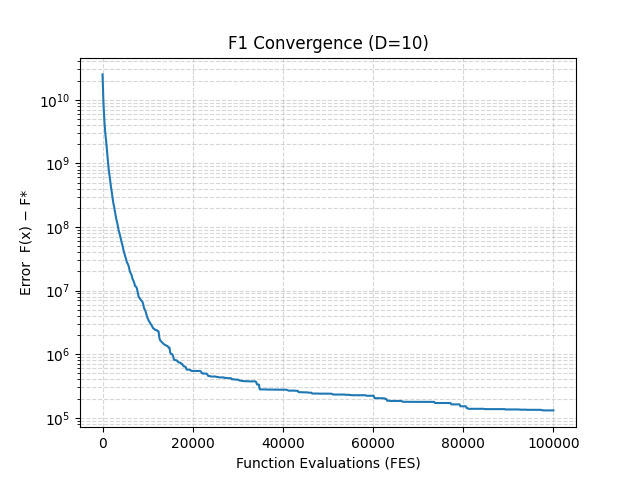
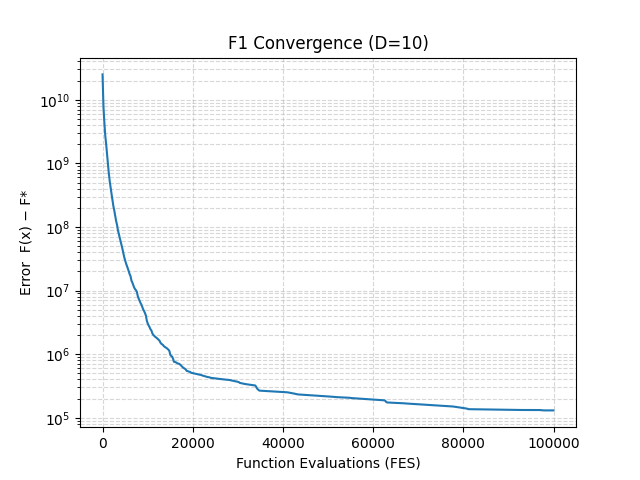
Fix Std Error/Dev naming, optimize history memory, and improve summarizer auto-detection

diff --git a/CEC2017/summarize.py b/CEC2017/summarize.py
@@ -8,6 +8,7 @@ Usage:
 
 import os
 import csv
+import re
 import sys
 
 # Add parent directory to sys.path to allow running as a script from within the package
@@ -16,7 +17,14 @@ parent_dir = os.path.dirname(current_dir)
 if parent_dir not in sys.path:
     sys.path.insert(0, parent_dir)
 
-from config import DIMENSIONS
+
+# Keys we recognise in result files (order matters for CSV columns)
+STAT_KEYS = {
+    "Best Value", "Best Error", "Worst Error", "Median Error",
+    "Mean Error", "Std Dev", "Std Error", "Time", "Ideal", "Runs",
+    # Legacy keys (from old output format) mapped during parsing
+    "Best", "Worst", "Median", "Mean", "Std", "StdError",
+}
 
 
 def parse_result_file(filepath):
@@ -28,10 +36,23 @@ def parse_result_file(filepath):
                 line = line.strip()
                 if not line:
                     continue
-                # Summary lines are formatted as: "Key\tValue"
                 parts = line.split("\t")
-                if len(parts) == 2 and parts[0] in ("Best Value", "Best Error", "Worst Error", "Median Error", "Mean Error", "Std Error", "Time", "Ideal", "Runs", "StdError", "Best", "Worst", "Median", "Mean", "Std"):
-                    stats[parts[0]] = parts[1]
+                if len(parts) == 2 and parts[0] in STAT_KEYS:
+                    key = parts[0]
+                    # Normalise legacy keys to current names
+                    if key == "Best":
+                        key = "Best Error"
+                    elif key == "Worst":
+                        key = "Worst Error"
+                    elif key == "Median":
+                        key = "Median Error"
+                    elif key == "Mean":
+                        key = "Mean Error"
+                    elif key == "Std":
+                        key = "Std Dev"
+                    elif key == "StdError":
+                        key = "Std Error"
+                    stats[key] = parts[1]
     except FileNotFoundError:
         pass
     return stats
@@ -42,9 +63,8 @@ def parse_best_solution(filepath, dimension):
     try:
         with open(filepath, "r") as f:
             lines = f.readlines()
-            # Decision variables start after the first line
             decision_vars = {}
-            for line in lines[1:]:  # Skip first line
+            for line in lines[1:]:
                 line = line.strip()
                 if line and '\t' in line:
                     parts = line.split('\t')
@@ -56,87 +76,100 @@ def parse_best_solution(filepath, dimension):
         return None
 
 
+def _detect_dimensions(results_dir):
+    """Auto-detect all dimensions from existing result files."""
+    dims = set()
+    pattern = re.compile(r"F\d+_D(\d+)\.txt$")
+    for func_dir in os.listdir(results_dir):
+        func_path = os.path.join(results_dir, func_dir)
+        if not os.path.isdir(func_path):
+            continue
+        for fname in os.listdir(func_path):
+            m = pattern.match(fname)
+            if m:
+                dims.add(int(m.group(1)))
+    return sorted(dims)
+
+
 def build_summary():
     results_dir = "results"
     output_file = os.path.join(results_dir, "summary.csv")
 
-    # Header: Function | Ideal Value | Best Value | Best Error | Worst Error | Mean Error | Std Dev | Std Error | x1 | x2 | ... | xD
-    header = ["Function", "Ideal Value", "Best Value", "Best Error", "Worst Error", "Mean Error", "Std Dev", "Std Error"]
+    # Auto-detect dimensions from result files
+    dimensions = _detect_dimensions(results_dir)
+    if not dimensions:
+        print("No result files found in results/ directory.")
+        return
 
-    # Add decision variable columns based on dimension
-    for dim in DIMENSIONS:
-        for i in range(dim):
-            header.append(f"x{i+1}")
+    print(f"Detected dimensions: {dimensions}")
+
+    # CSV columns (per dimension block):
+    # Best Value | Best Error | Worst Error | Mean Error | Std Dev | Std Error | x1..xD
+    header = ["Function"]
+
+    for dim in dimensions:
+        prefix = f"D{dim}_"
+        header.extend([
+            f"{prefix}Best Value",
+            f"{prefix}Best Error",
+            f"{prefix}Worst Error",
+            f"{prefix}Mean Error",
+            f"{prefix}Std Dev",
+            f"{prefix}Std Error",
+        ])
 
     rows = []
 
     for func_id in range(1, 31):
         row = [f"F{func_id}"]
-
-        # Calculate ideal value
         ideal_value = func_id * 100
-        row.append(f"{ideal_value:.6e}")
 
-        # Initialize variables to store best solution across dimensions
-        best_overall_solution = None
-        best_overall_value = float('inf')
-        best_overall_dimension = None
-
-        # Process each dimension
-        for dim in DIMENSIONS:
+        for dim in dimensions:
             filepath = os.path.join(results_dir, f"F{func_id}", f"F{func_id}_D{dim}.txt")
             stats = parse_result_file(filepath)
 
-            solution_path = os.path.join(results_dir, f"F{func_id}", f"F{func_id}_D{dim}_solution.txt")
-            decision_vars = parse_best_solution(solution_path, dim)
-
             if stats:
                 try:
-                    if "Best Value" in stats:
-                        best_value = float(stats["Best Value"])
-                        best_error = float(stats.get("Best Error", "—"))
-                    else:
-                        best_error = float(stats.get("Best", "—"))
-                        best_value = best_error + ideal_value if best_error != "—" else "—"
-
-                    worst_error = float(stats.get("Worst Error", stats.get("Worst", "—")))
-                    mean_error = float(stats.get("Mean Error", stats.get("Mean", "—")))
-                    std_dev_error = float(stats.get("Std Error", stats.get("Std", "—")))
-                    std_error = float(stats.get("StdError", "—"))
+                    best_value = float(stats.get("Best Value", "—"))
                 except (ValueError, TypeError):
-                    best_value = best_error = worst_error = mean_error = std_dev_error = std_error = "—"
+                    best_value = "—"
 
-                # Track best solution across dimensions
-                if isinstance(best_value, (int, float)) and best_value < best_overall_value:
-                    best_overall_value = best_value
-                    best_overall_solution = decision_vars
-                    best_overall_dimension = dim
+                try:
+                    best_error = float(stats.get("Best Error", "—"))
+                except (ValueError, TypeError):
+                    best_error = "—"
 
-                # Add statistics to row
+                try:
+                    worst_error = float(stats.get("Worst Error", "—"))
+                except (ValueError, TypeError):
+                    worst_error = "—"
+
+                try:
+                    mean_error = float(stats.get("Mean Error", "—"))
+                except (ValueError, TypeError):
+                    mean_error = "—"
+
+                try:
+                    std_dev = float(stats.get("Std Dev", "—"))
+                except (ValueError, TypeError):
+                    std_dev = "—"
+
+                try:
+                    std_error = float(stats.get("Std Error", "—"))
+                except (ValueError, TypeError):
+                    std_error = "—"
+
                 row.extend([
                     f"{best_value:.6e}" if isinstance(best_value, (int, float)) else best_value,
                     f"{best_error:.6e}" if isinstance(best_error, (int, float)) else best_error,
                     f"{worst_error:.6e}" if isinstance(worst_error, (int, float)) else worst_error,
                     f"{mean_error:.6e}" if isinstance(mean_error, (int, float)) else mean_error,
-                    f"{std_dev_error:.6e}" if isinstance(std_dev_error, (int, float)) else std_dev_error,
+                    f"{std_dev:.6e}" if isinstance(std_dev, (int, float)) else std_dev,
                     f"{std_error:.6e}" if isinstance(std_error, (int, float)) else std_error,
                 ])
-
-                # Add decision variables if available
-                if decision_vars:
-                    for i in range(dim):
-                        var_name = f"x{i+1}"
-                        value = decision_vars.get(var_name, "—")
-                        row.append(f"{value:.6e}")
-                else:
-                    row.extend(["—"] * dim)
             else:
-                # No stats available, fill with placeholders
-                row.extend(["—"] * (7 + dim))
-
-        # If no data available for this function at all
-        if len(row) == 1:  # Only function name
-            row.extend(["—"] * (7 + max(DIMENSIONS) if DIMENSIONS else 0))
+                # No results for this function/dimension
+                row.extend(["—"] * 6)
 
         rows.append(row)
 
@@ -148,10 +181,9 @@ def build_summary():
         writer.writerows(rows)
 
     print(f"Summary saved to: {output_file}")
-    print(f"Functions: F1–F30 | Dimensions: {DIMENSIONS}")
+    print(f"Functions: F1–F30 | Dimensions: {dimensions}")
     print(f"Total entries: {len(rows)}")
     print(f"Columns: {len(header)}")
-    print(f"Header: {', '.join(header[:8])} {'...' if len(header) > 8 else ''}")
 
 
 if __name__ == "__main__":

diff --git a/CEC2017/runner.py b/CEC2017/runner.py
@@ -3,7 +3,7 @@ import random
 import time
 
 from algorithms.rao2 import rao2
-from functions.core import evaluate, reset_fes, get_fes, get_optimal_value
+from functions.core import reset_fes, get_fes, get_optimal_value
 from visualization.plot_convergence import plot_convergence
 from visualization.plot_3d_surface import plot_3d_surface
 from visualization.plot_2d_contour import plot_2d_contour
@@ -70,16 +70,18 @@ def run_experiment(func_id, dimension, lb, ub, pop_size, max_fes, runs):
         best, history = rao2(pop_size, dimension, lb, ub, max_fes, func_id)
 
         fes_used = get_fes()
-        f, _ = evaluate(best, func_id)
-        error = max(f - f_star, 0.0)
+        # Use the last recorded best fitness from the history
+        # instead of calling evaluate() again (which would waste 1 FES)
+        _, last_best_f = history[-1]
+        error = max(last_best_f - f_star, 0.0)
 
         all_histories.append(history)
         checkpoint_errors = _extract_errors_at_checkpoints(history, max_fes, f_star)
         all_checkpoint_errors.append(checkpoint_errors)
         final_errors.append(error)
 
-        if f < best_value:
-            best_value = f
+        if last_best_f < best_value:
+            best_value = last_best_f
             best_solution = best
         best_solutions.append(best.copy())
 
@@ -99,7 +101,8 @@ def run_experiment(func_id, dimension, lb, ub, pop_size, max_fes, runs):
         "Worst Error": np.max(final_arr),
         "Median Error": np.median(final_arr),
         "Mean Error": np.mean(final_arr),
-        "Std Error": np.std(final_arr),
+        "Std Dev": np.std(final_arr),
+        "Std Error": np.std(final_arr) / np.sqrt(len(final_arr)),
     }
 
     save_results(func_id, dimension, error_matrix, stats, total_time, best_solution, best_solutions, runs)
@@ -115,5 +118,6 @@ def run_experiment(func_id, dimension, lb, ub, pop_size, max_fes, runs):
     print(f"Worst Err : {stats['Worst Error']:.6e}")
     print(f"Median Err: {stats['Median Error']:.6e}")
     print(f"Mean Err  : {stats['Mean Error']:.6e}")
-    print(f"Std Err   : {stats['Std Error']:.6e}")
+    print(f"Std Dev   : {stats['Std Dev']:.6e}")
+    print(f"Std Error : {stats['Std Error']:.6e}")
     print(f"Time      : {total_time:.2f} seconds")

diff --git a/CEC2017/results.py b/CEC2017/results.py
@@ -35,13 +35,13 @@ def save_results(func_id, dimension, error_matrix, stats, total_time, best_solut
         f.write(f"Worst Error\t{stats['Worst Error']:.6e}\n")
         f.write(f"Median Error\t{stats['Median Error']:.6e}\n")
         f.write(f"Mean Error\t{stats['Mean Error']:.6e}\n")
+        f.write(f"Std Dev\t{stats['Std Dev']:.6e}\n")
         f.write(f"Std Error\t{stats['Std Error']:.6e}\n")
         f.write(f"Time\t{total_time:.2f}\n")
 
         # ── Additional statistics for summary generation ──
         f.write(f"Ideal\t{func_id * 100:.6e}\n")
         f.write(f"Runs\t{runs}\n")
-        f.write(f"StdError\t{stats['Std Error'] / np.sqrt(runs):.6e}\n")
 
     print(f"Results saved: {file_path}")
 

diff --git a/CEC2017/__init__.py b/CEC2017/__init__.py
@@ -9,10 +9,10 @@ __version__ = "0.1.1"
 __author__ = "Lakshya Maheshwari"
 __email__ = "your.email@example.com"  # Replace with your actual email
 
-import  algorithms
-import  functions
-import  utils
-import  visualization
-from results import save_results
+from . import algorithms
+from . import functions
+from . import utils
+from . import visualization
+from .results import save_results
 
 __all__ = ["algorithms", "functions", "utils", "visualization", "save_results"]

diff --git a/CEC2017/algorithms/rao2.py b/CEC2017/algorithms/rao2.py
@@ -89,7 +89,6 @@ def rao2(pop_size, D, lb, ub, max_fes, func_id):
             if fitness[i] < running_best_f:
                 running_best_f = fitness[i]
                 running_best   = population[i].copy()
-
-            fitness_history.append((get_fes(), running_best_f))
+                fitness_history.append((get_fes(), running_best_f))
 
     return running_best, fitness_history

diff --git a/CEC2017/algorithms/__init__.py b/CEC2017/algorithms/__init__.py
@@ -7,4 +7,4 @@ including the Rao-2 algorithm.
 
 from algorithms.rao2 import rao2
 
-__all__ = ["rao1", "rao2", "rao3", "fisa"]
+__all__ = ["rao2"]

diff --git a/CEC2017/config.py b/CEC2017/config.py
@@ -1,4 +1,4 @@
-DIMENSIONS = [2, 10, 20, 30]
+DIMENSIONS = [2, 10, 20, 30, 50, 100]
 
 ALGORITHMS = ["rao1", "rao2", "rao3", "fisa"]
 
